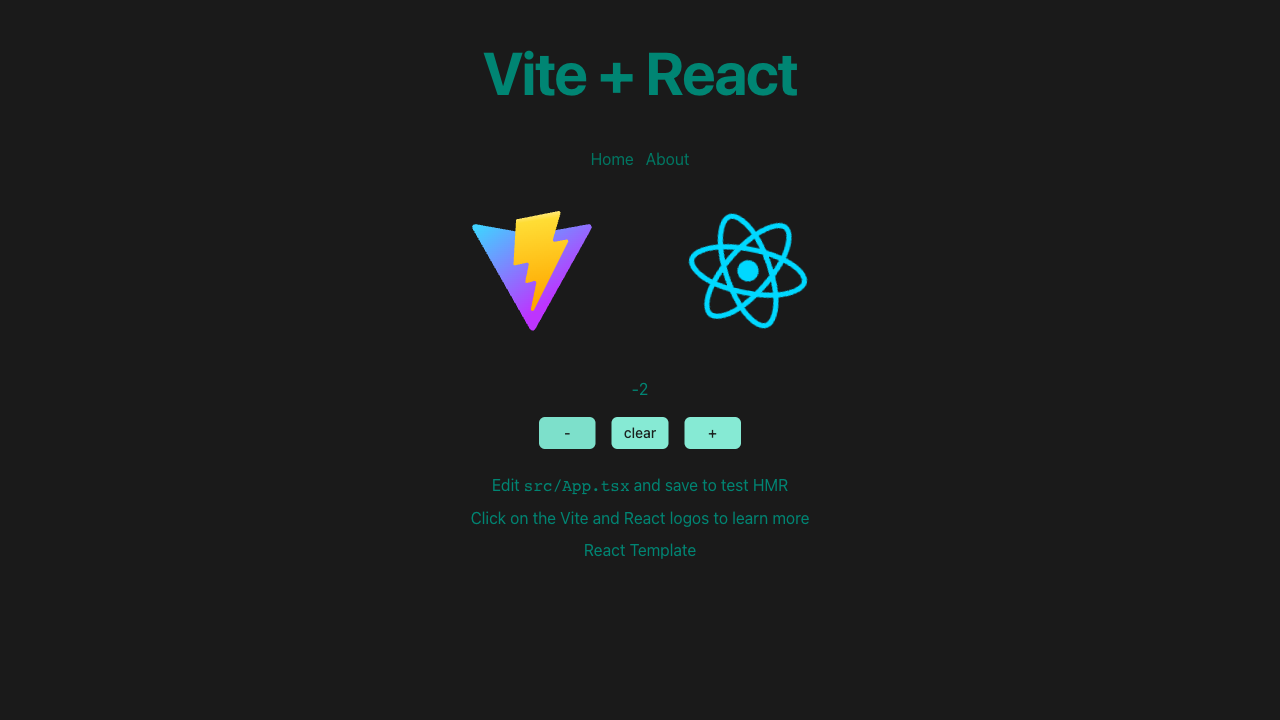
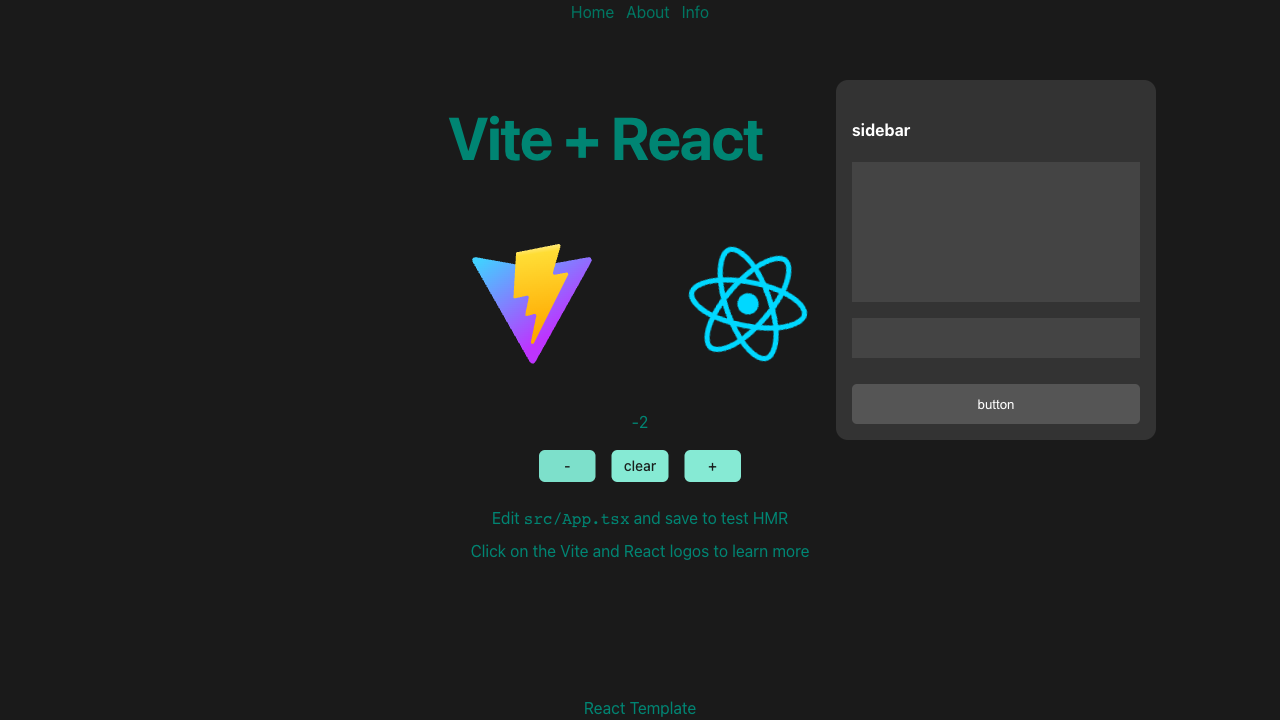
feat: update styles

diff --git a/src/widgets/main-layout-route/ui/sidebar.tsx b/src/widgets/main-layout-route/ui/sidebar.tsx
@@ -5,19 +5,24 @@ import styles from './sidebar.module.scss';
 export const Sidebar: FC = () => (
     <div className={styles.sidebar}>
         <h4>sidebar</h4>
-        <div className={styles.scrollable}>
-            <div className={styles.block} />
-            <div className={styles.block} />
-            <div className={styles.block} />
-            <div className={styles.block} />
-            <div className={styles.block} />
-            <div className={styles.block} />
-            <div className={styles.block} />
-            <div className={styles.block} />
-            <div className={styles.block} />
-        </div>
+        <section className={styles.scrollable}>
+            <article className={styles.block} />
+            <article className={styles.block} />
+            <article className={styles.block} />
+            <article className={styles.block} />
+            <article className={styles.block} />
+            <article className={styles.block} />
+            <article className={styles.block} />
+            <article className={styles.block} />
+            <article className={styles.block} />
+        </section>
         <div className={styles.controls}>
-            <button type='button'>button</button>
+            <button
+                className={styles.button}
+                type='button'
+            >
+                button
+            </button>
         </div>
     </div>
 );

diff --git a/src/widgets/main-layout-route/ui/sidebar.module.scss b/src/widgets/main-layout-route/ui/sidebar.module.scss
@@ -13,7 +13,9 @@
     max-height: 50svh;
     padding: 16px;
 
-    background-color: #b1b1b1;
+    color: #fff;
+
+    background-color: #333;
     border-radius: 12px;
 }
 
@@ -37,5 +39,26 @@
     width: 100%;
     height: 140px;
 
-    background-color: rgb(29 69 29);
+    background-color: #444;
+
+    &:hover {
+        background-color: #555;
+    }
+}
+
+.button {
+    margin-top: 10px;
+    padding: 10px 20px;
+
+    color: #fff;
+
+    background-color: #555;
+    border: none;
+    border-radius: 5px;
+    cursor: pointer;
+
+    &:hover {
+        background-color: #666; /* Темно-серый цвет кнопки при наведении */
+    }
+
 }

diff --git a/src/app/styles/fonts.scss b/src/app/styles/fonts.scss
@@ -1,13 +1,13 @@
 @font-face {
   font-weight: 100 900;
-  font-family: InterVariable;
+  font-family: Inter;
   font-style: normal;
   src: url("./InterVariable.woff2") format("woff2");
   font-display: swap;
 }
 @font-face {
   font-weight: 100 900;
-  font-family: InterVariable;
+  font-family: Inter;
   font-style: italic;
   src: url("./InterVariable-Italic.woff2") format("woff2");
   font-display: swap;

diff --git a/src/app/styles/main.scss b/src/app/styles/main.scss
@@ -12,13 +12,13 @@
 }
 
 html {
-    font-family: InterVariable, sans-serif;
+    font-family: Inter, sans-serif;
 }
 
 body {
     margin: 0;
 
-    font-family: InterVariable, sans-serif;
+    font-family: Inter, sans-serif;
 
     --color-page-background: #1a1a1a;
 }

diff --git a/src/app/main.tsx b/src/app/main.tsx
@@ -8,6 +8,7 @@ import { envClient } from '$shared/api/env-client';
 import { AppRouter } from './router/app-router';
 
 import '@radix-ui/themes/styles.css';
+import './styles/fonts.scss';
 import './styles/main.scss';
 
 export const Main = () => (

diff --git a/src/shared/ui/footer/ui/footer.module.scss b/src/shared/ui/footer/ui/footer.module.scss
@@ -2,7 +2,4 @@
     display: flex;
     align-items: center;
     justify-self: center;
-    height: 460px;
-
-    background: #f00;
 }
